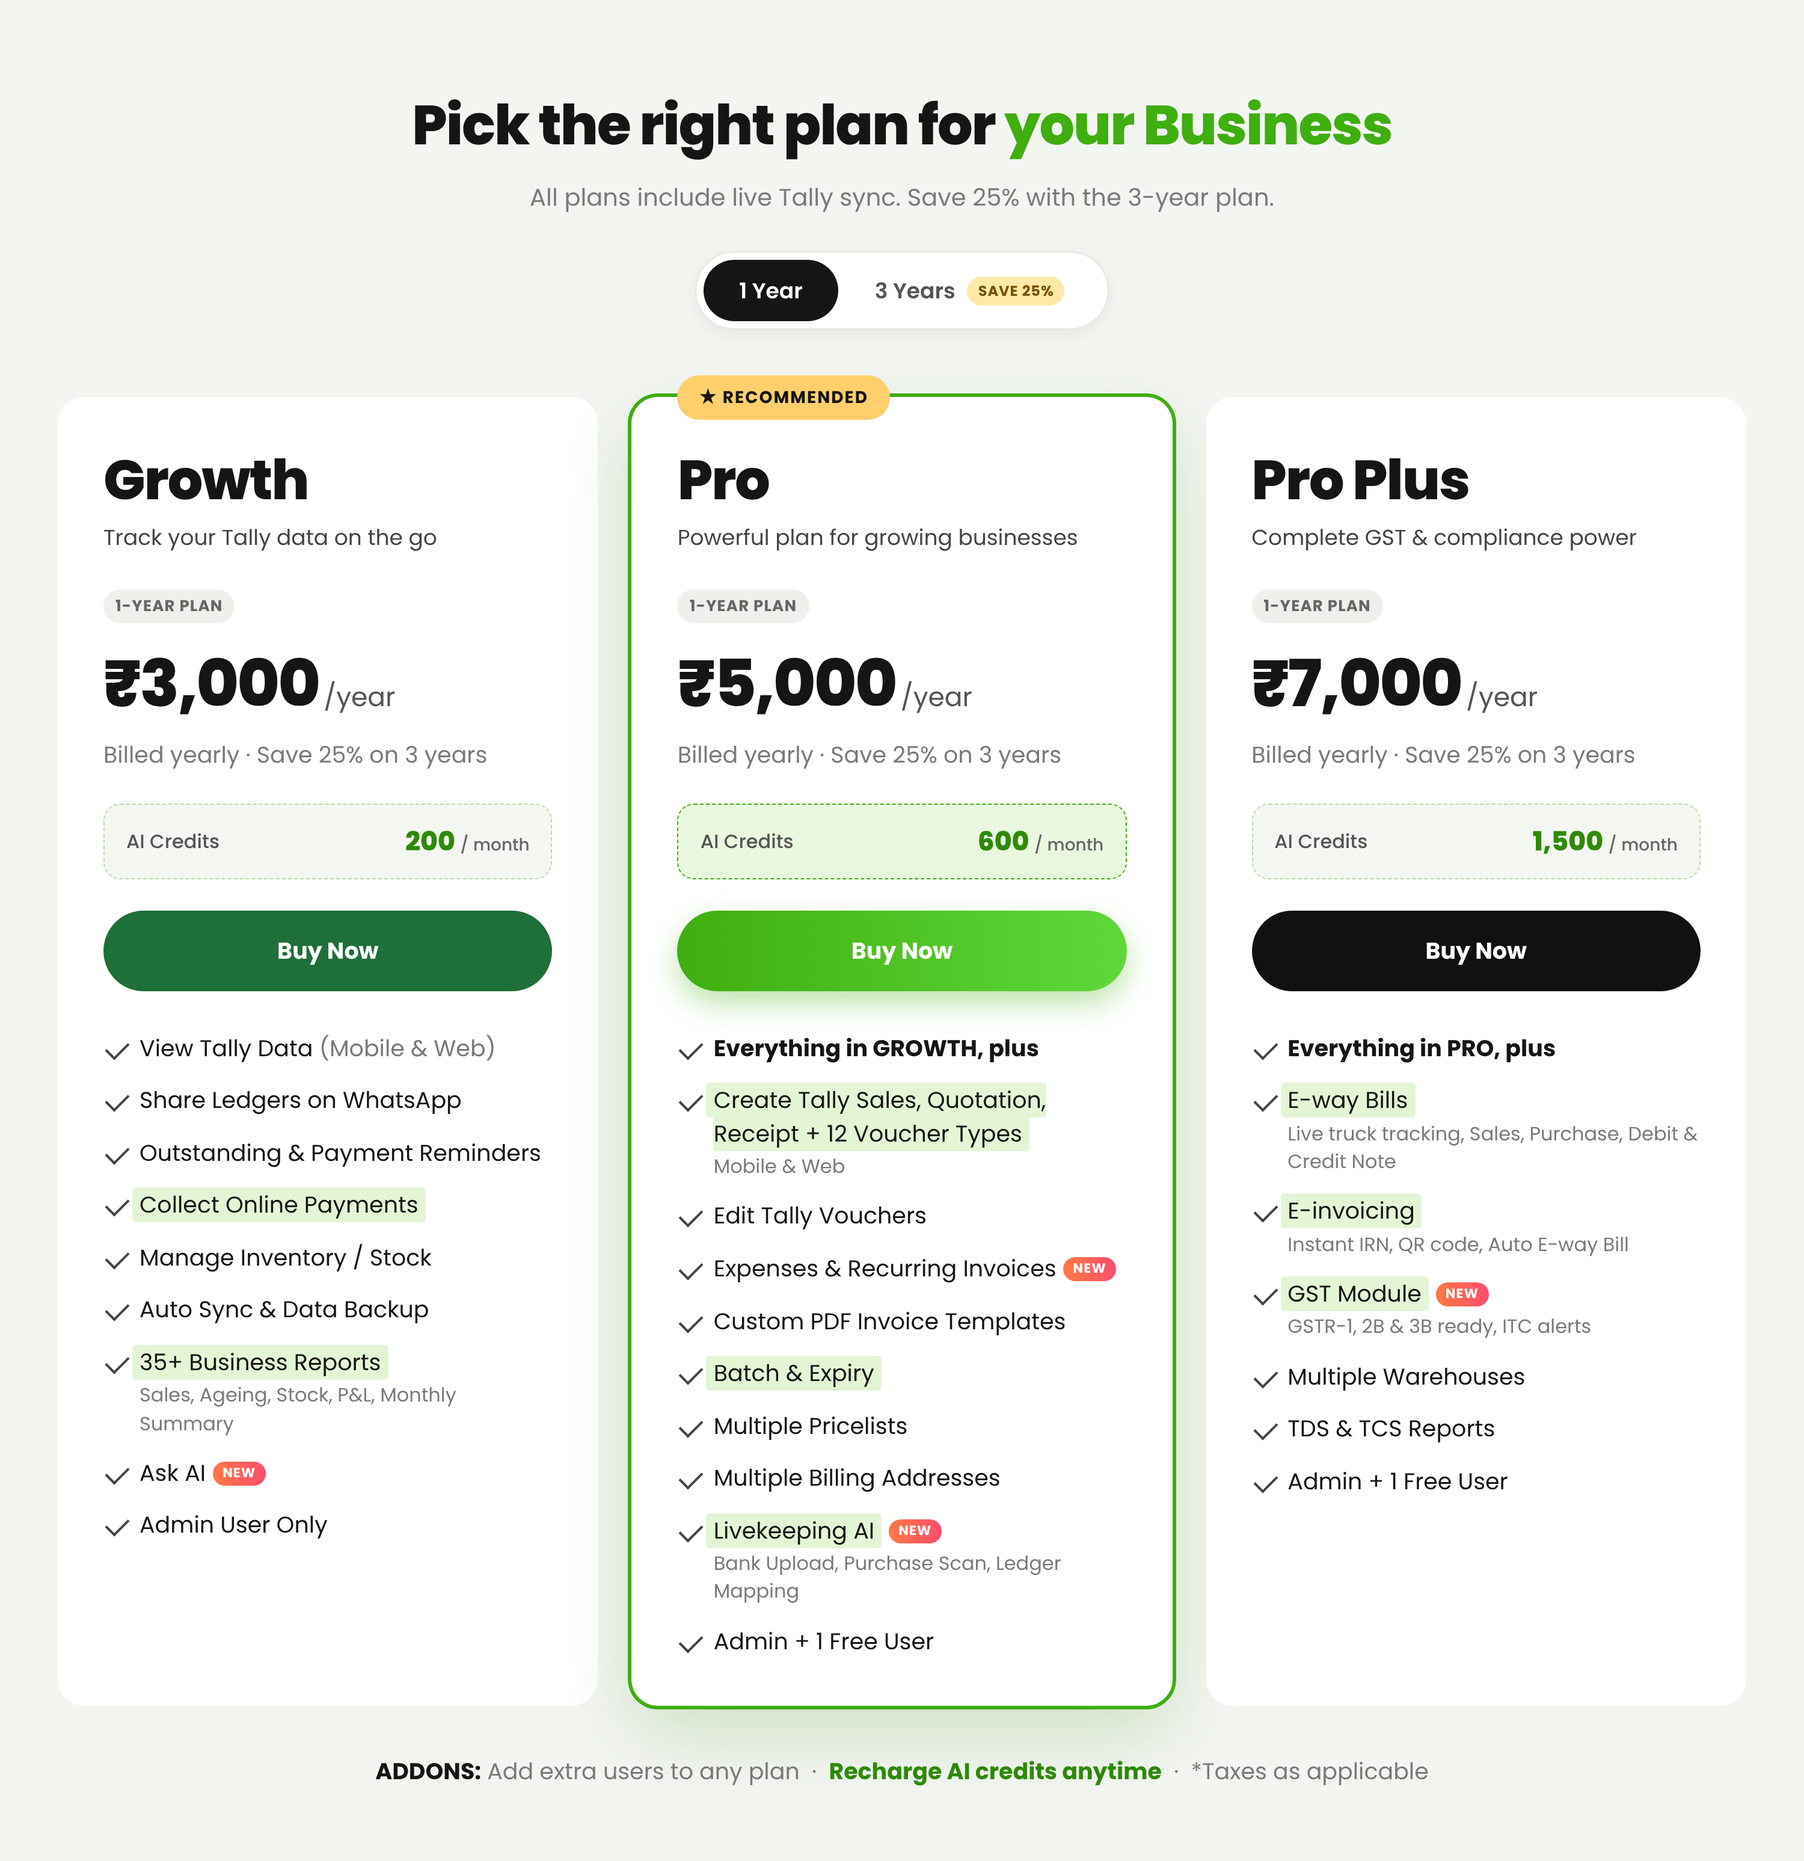
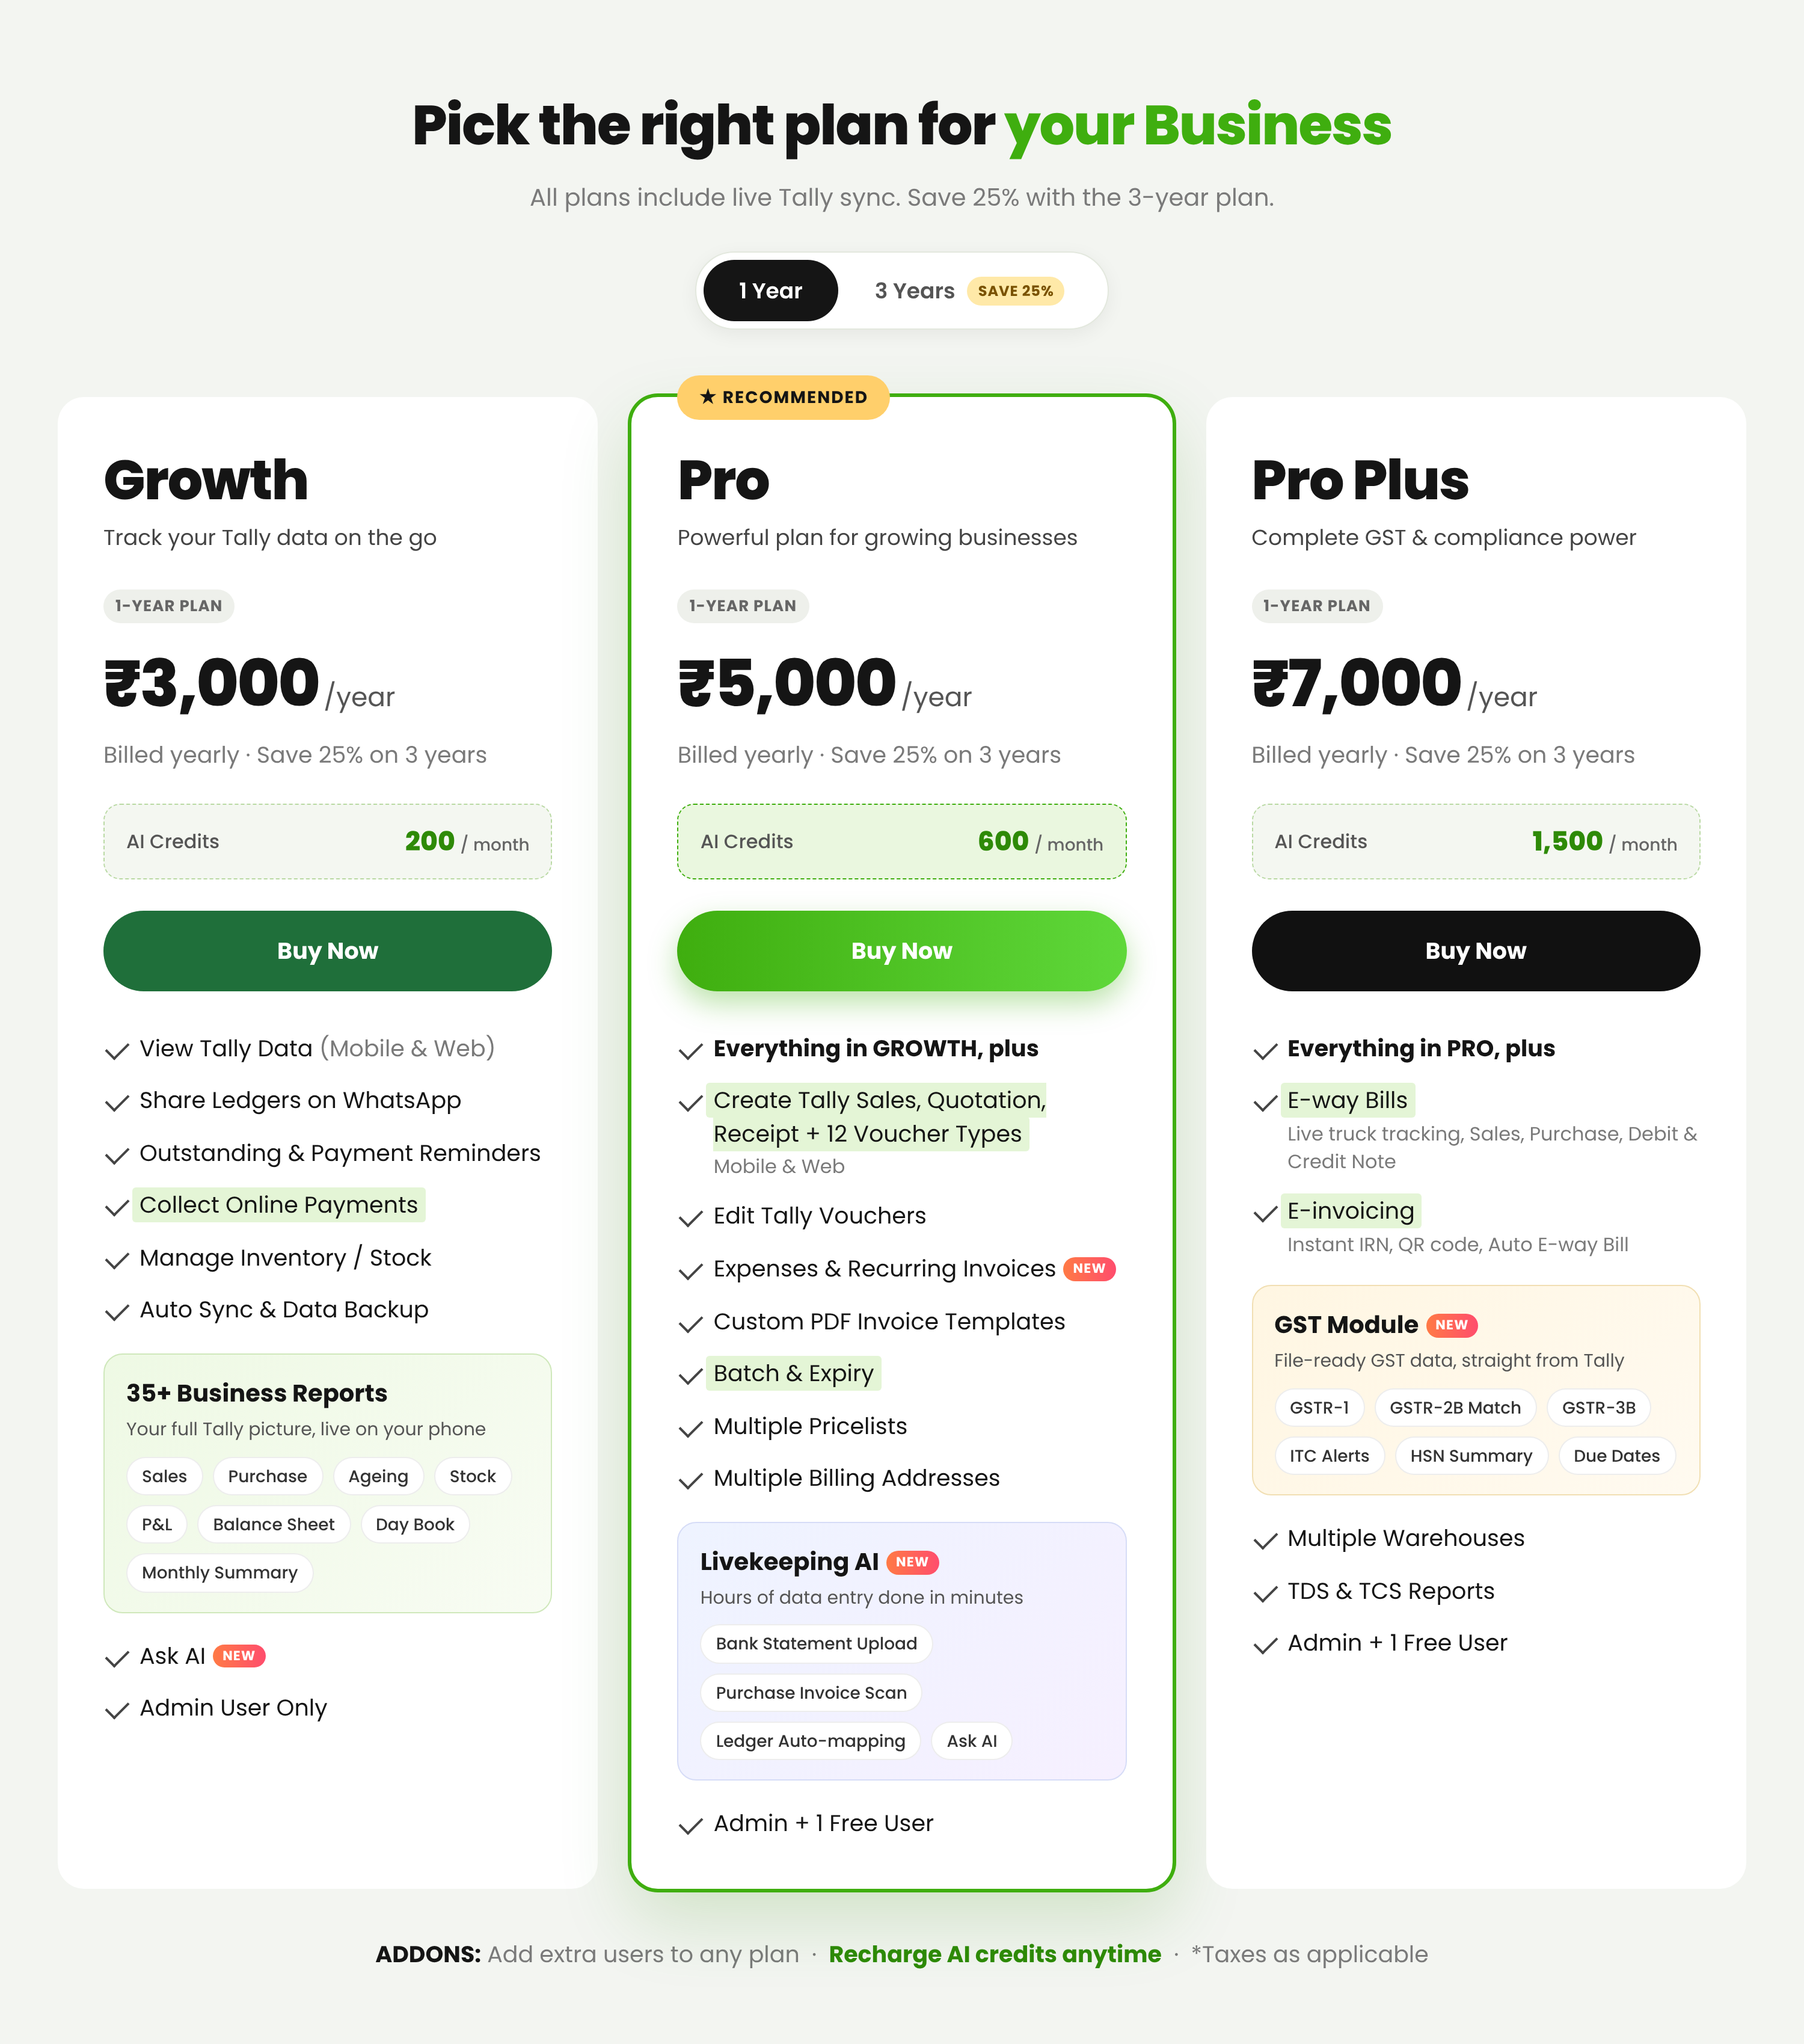
Pricing cards: highlight Reports, Livekeeping AI and GST modules as feature blocks
Claude-Session: https://claude.ai/code/session_01TUFe6273V25gsCzznixesV

diff --git a/livekeeping-pricing/cards.html b/livekeeping-pricing/cards.html
@@ -83,6 +83,23 @@
   .dots li { display: list-item; font-size: 17px; line-height: 1.9; }
   .dots li::before { display: none; }
 
+  li.module { display: block; margin: 6px 0; }
+  li.module::before { display: none; }
+  .mod {
+    border-radius: 16px; padding: 18px 18px 16px;
+    background: linear-gradient(135deg, #eef9e4 0%, #f8fcf3 100%);
+    border: 1px solid #cfe8bb;
+  }
+  .mod.ai { background: linear-gradient(135deg, #eef3ff 0%, #f6f0ff 100%); border-color: #d6dcf7; }
+  .mod.gst { background: linear-gradient(135deg, #fff6e2 0%, #fffaf0 100%); border-color: #f1dfb3; }
+  .mod-head { display: flex; align-items: center; justify-content: space-between; gap: 10px; }
+  .mod-title { font-size: 20px; font-weight: 700; }
+  .mod-kicker { font-size: 12px; font-weight: 700; letter-spacing: 1px; text-transform: uppercase; color: var(--green-dark); }
+  .mod.ai .mod-kicker { color: #4a55c8; }
+  .mod.gst .mod-kicker { color: #9a6a00; }
+  .mod-desc { font-size: 15px; color: #555; margin-top: 4px; }
+  .chips { display: flex; flex-wrap: wrap; gap: 8px; margin-top: 12px; }
+  .chip { background: #fff; border: 1px solid rgba(0,0,0,.07); border-radius: 20px; padding: 5px 12px; font-size: 14px; font-weight: 500; color: #333; }
   .addons { text-align: center; margin-top: 40px; font-size: 19px; color: var(--muted); }
   .addons b { color: var(--text); }
   .addons .rc { color: var(--green-dark); }
@@ -124,7 +141,11 @@
         <li><div><span class="hl">Collect Online Payments</span></div></li>
         <li><div>Manage Inventory / Stock</div></li>
         <li><div>Auto Sync &amp; Data Backup</div></li>
-        <li><div><span class="hl">35+ Business Reports</span><span class="note">Sales, Ageing, Stock, P&amp;L, Monthly Summary</span></div></li>
+        <li class="module"><div class="mod">
+          <div class="mod-head"><span class="mod-title">35+ Business Reports</span></div>
+          <div class="mod-desc">Your full Tally picture, live on your phone</div>
+          <div class="chips"><span class="chip">Sales</span><span class="chip">Purchase</span><span class="chip">Ageing</span><span class="chip">Stock</span><span class="chip">P&amp;L</span><span class="chip">Balance Sheet</span><span class="chip">Day Book</span><span class="chip">Monthly Summary</span></div>
+        </div></li>
         <li><div>Ask AI<span class="new">NEW</span></div></li>
         <li><div>Admin User Only</div></li>
       </ul>
@@ -156,7 +177,11 @@
         <li><div><span class="hl">Batch &amp; Expiry</span></div></li>
         <li><div>Multiple Pricelists</div></li>
         <li><div>Multiple Billing Addresses</div></li>
-        <li><div><span class="hl">Livekeeping AI</span><span class="new">NEW</span><span class="note">Bank Upload, Purchase Scan, Ledger Mapping</span></div></li>
+        <li class="module"><div class="mod ai">
+          <div class="mod-head"><span class="mod-title">Livekeeping AI<span class="new">NEW</span></span></div>
+          <div class="mod-desc">Hours of data entry done in minutes</div>
+          <div class="chips"><span class="chip">Bank Statement Upload</span><span class="chip">Purchase Invoice Scan</span><span class="chip">Ledger Auto-mapping</span><span class="chip">Ask AI</span></div>
+        </div></li>
         <li><div>Admin + 1 Free User</div></li>
       </ul>
     </div>
@@ -181,7 +206,11 @@
         <li><div><b>Everything in PRO, plus</b></div></li>
         <li><div><span class="hl">E-way Bills</span><span class="note">Live truck tracking, Sales, Purchase, Debit &amp; Credit Note</span></div></li>
         <li><div><span class="hl">E-invoicing</span><span class="note">Instant IRN, QR code, Auto E-way Bill</span></div></li>
-        <li><div><span class="hl">GST Module</span><span class="new">NEW</span><span class="note">GSTR-1, 2B &amp; 3B ready, ITC alerts</span></div></li>
+        <li class="module"><div class="mod gst">
+          <div class="mod-head"><span class="mod-title">GST Module<span class="new">NEW</span></span></div>
+          <div class="mod-desc">File-ready GST data, straight from Tally</div>
+          <div class="chips"><span class="chip">GSTR-1</span><span class="chip">GSTR-2B Match</span><span class="chip">GSTR-3B</span><span class="chip">ITC Alerts</span><span class="chip">HSN Summary</span><span class="chip">Due Dates</span></div>
+        </div></li>
         <li><div>Multiple Warehouses</div></li>
         <li><div>TDS &amp; TCS Reports</div></li>
         <li><div>Admin + 1 Free User</div></li>
